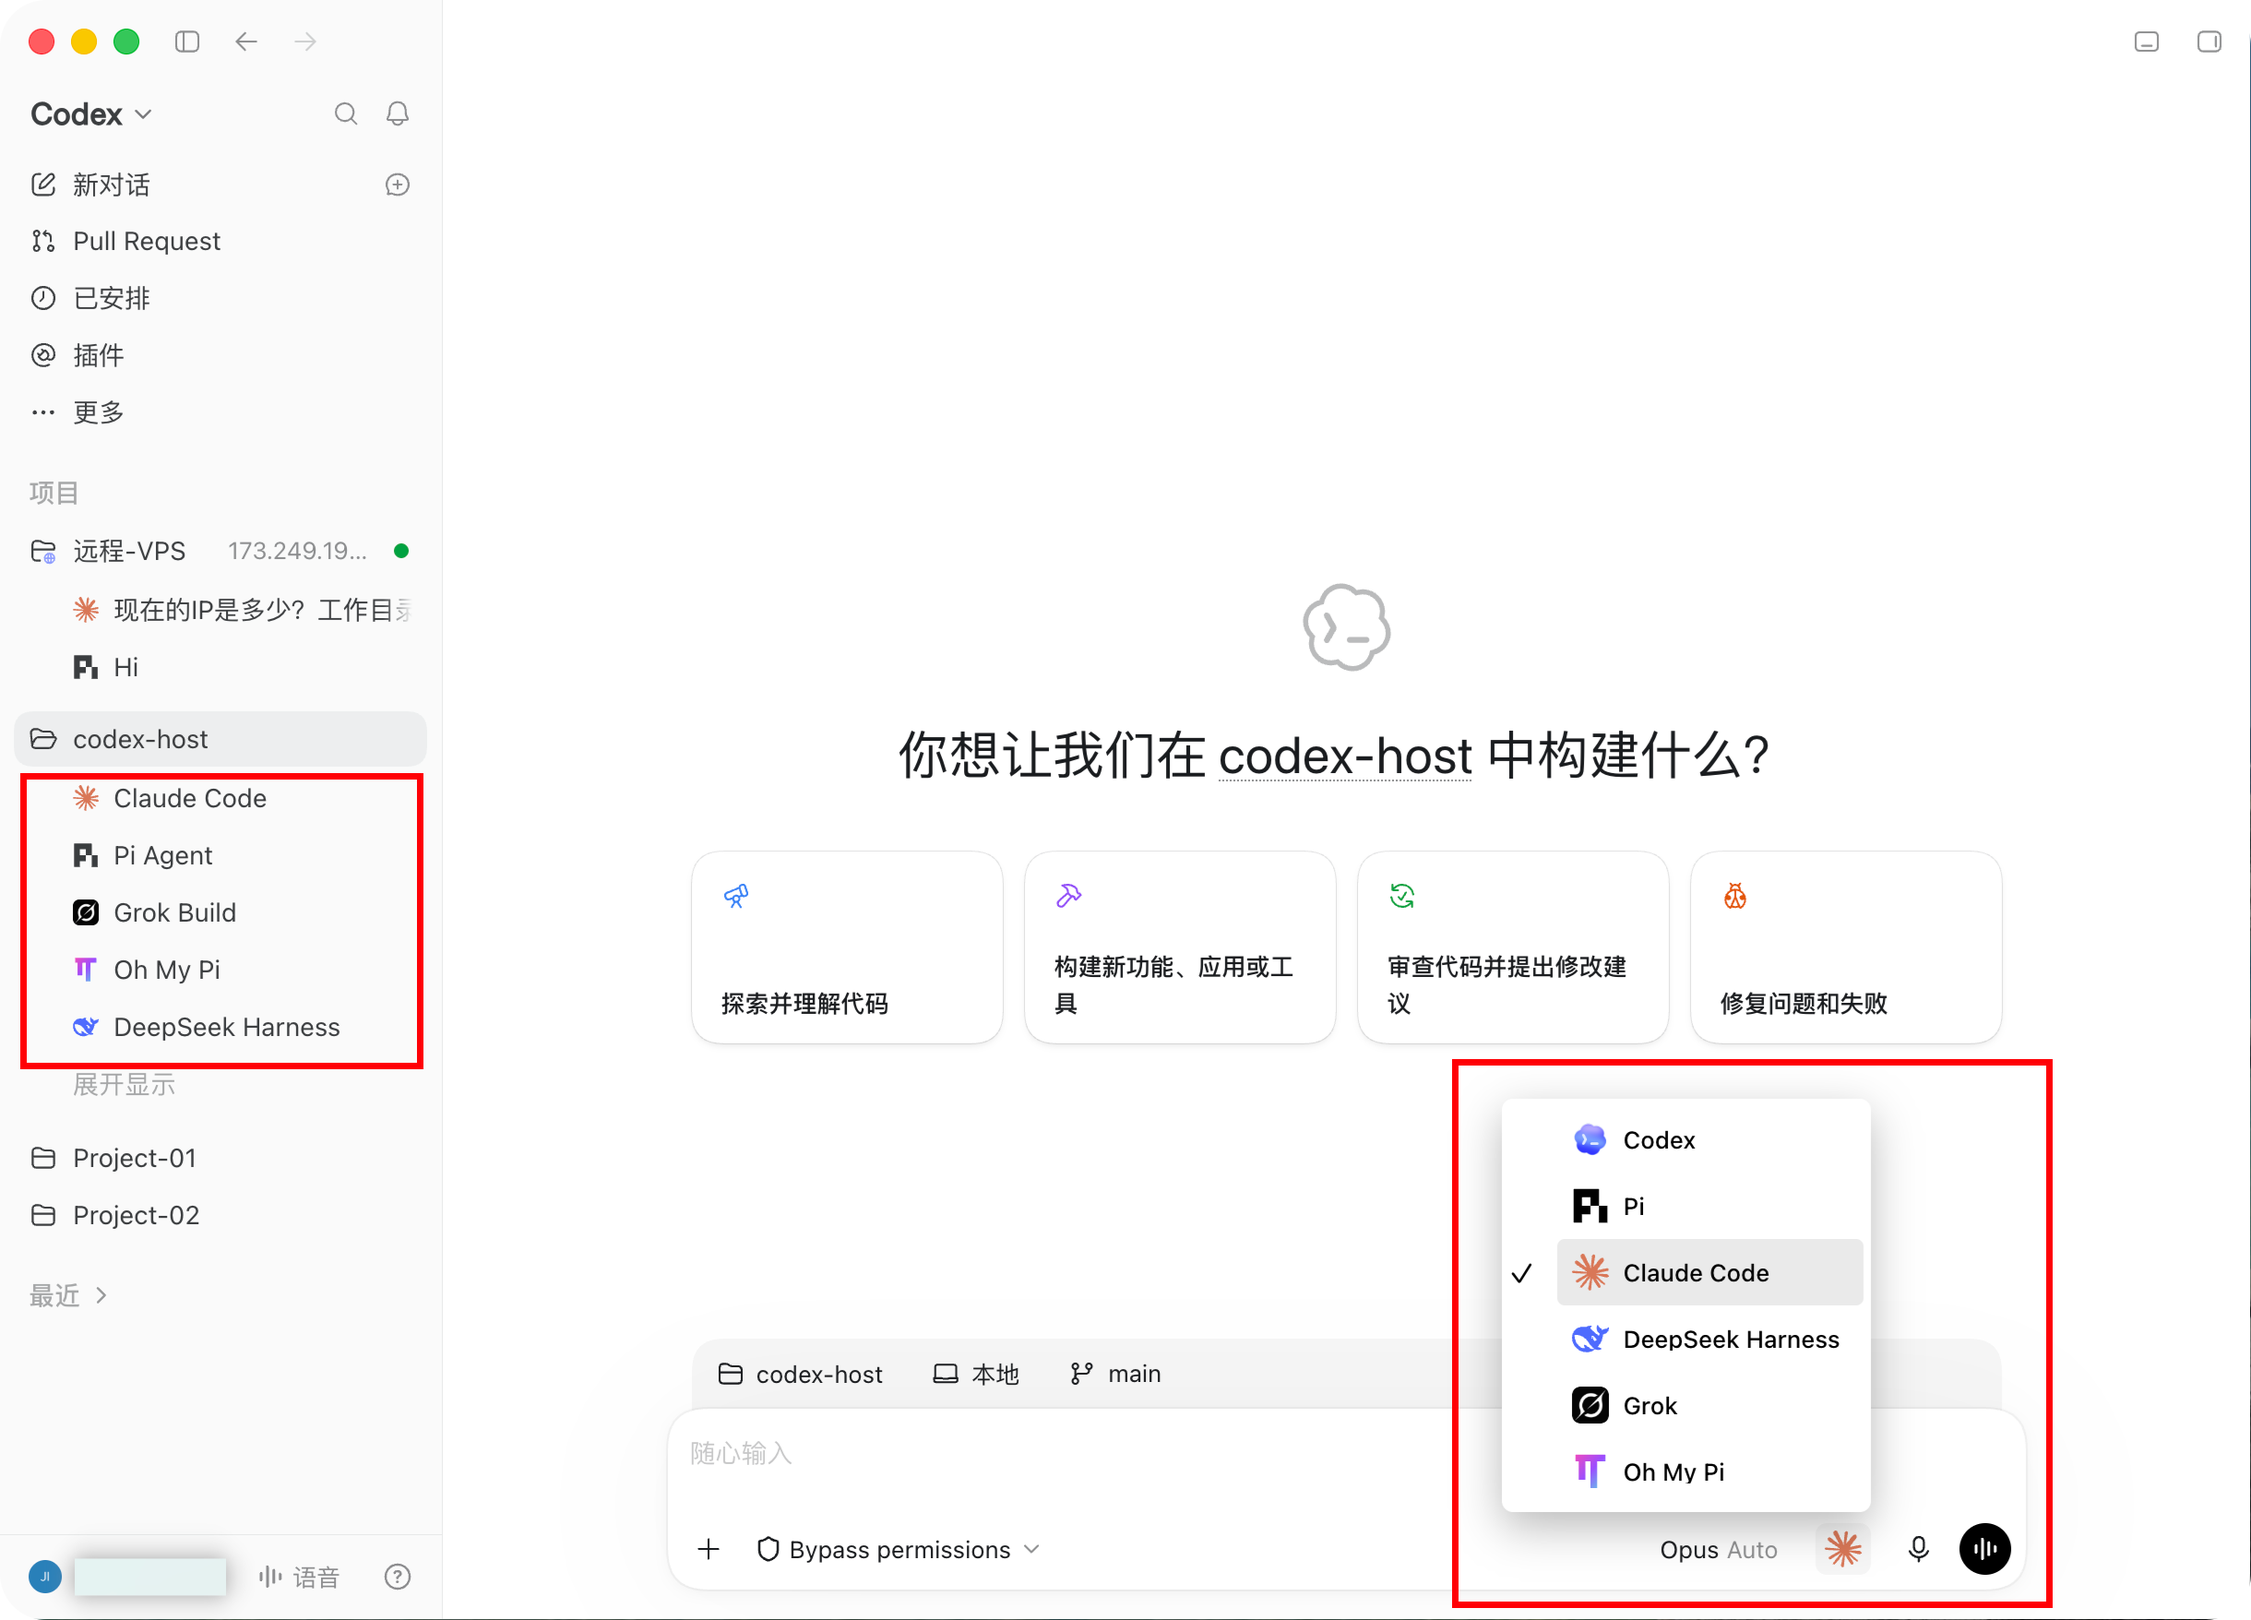
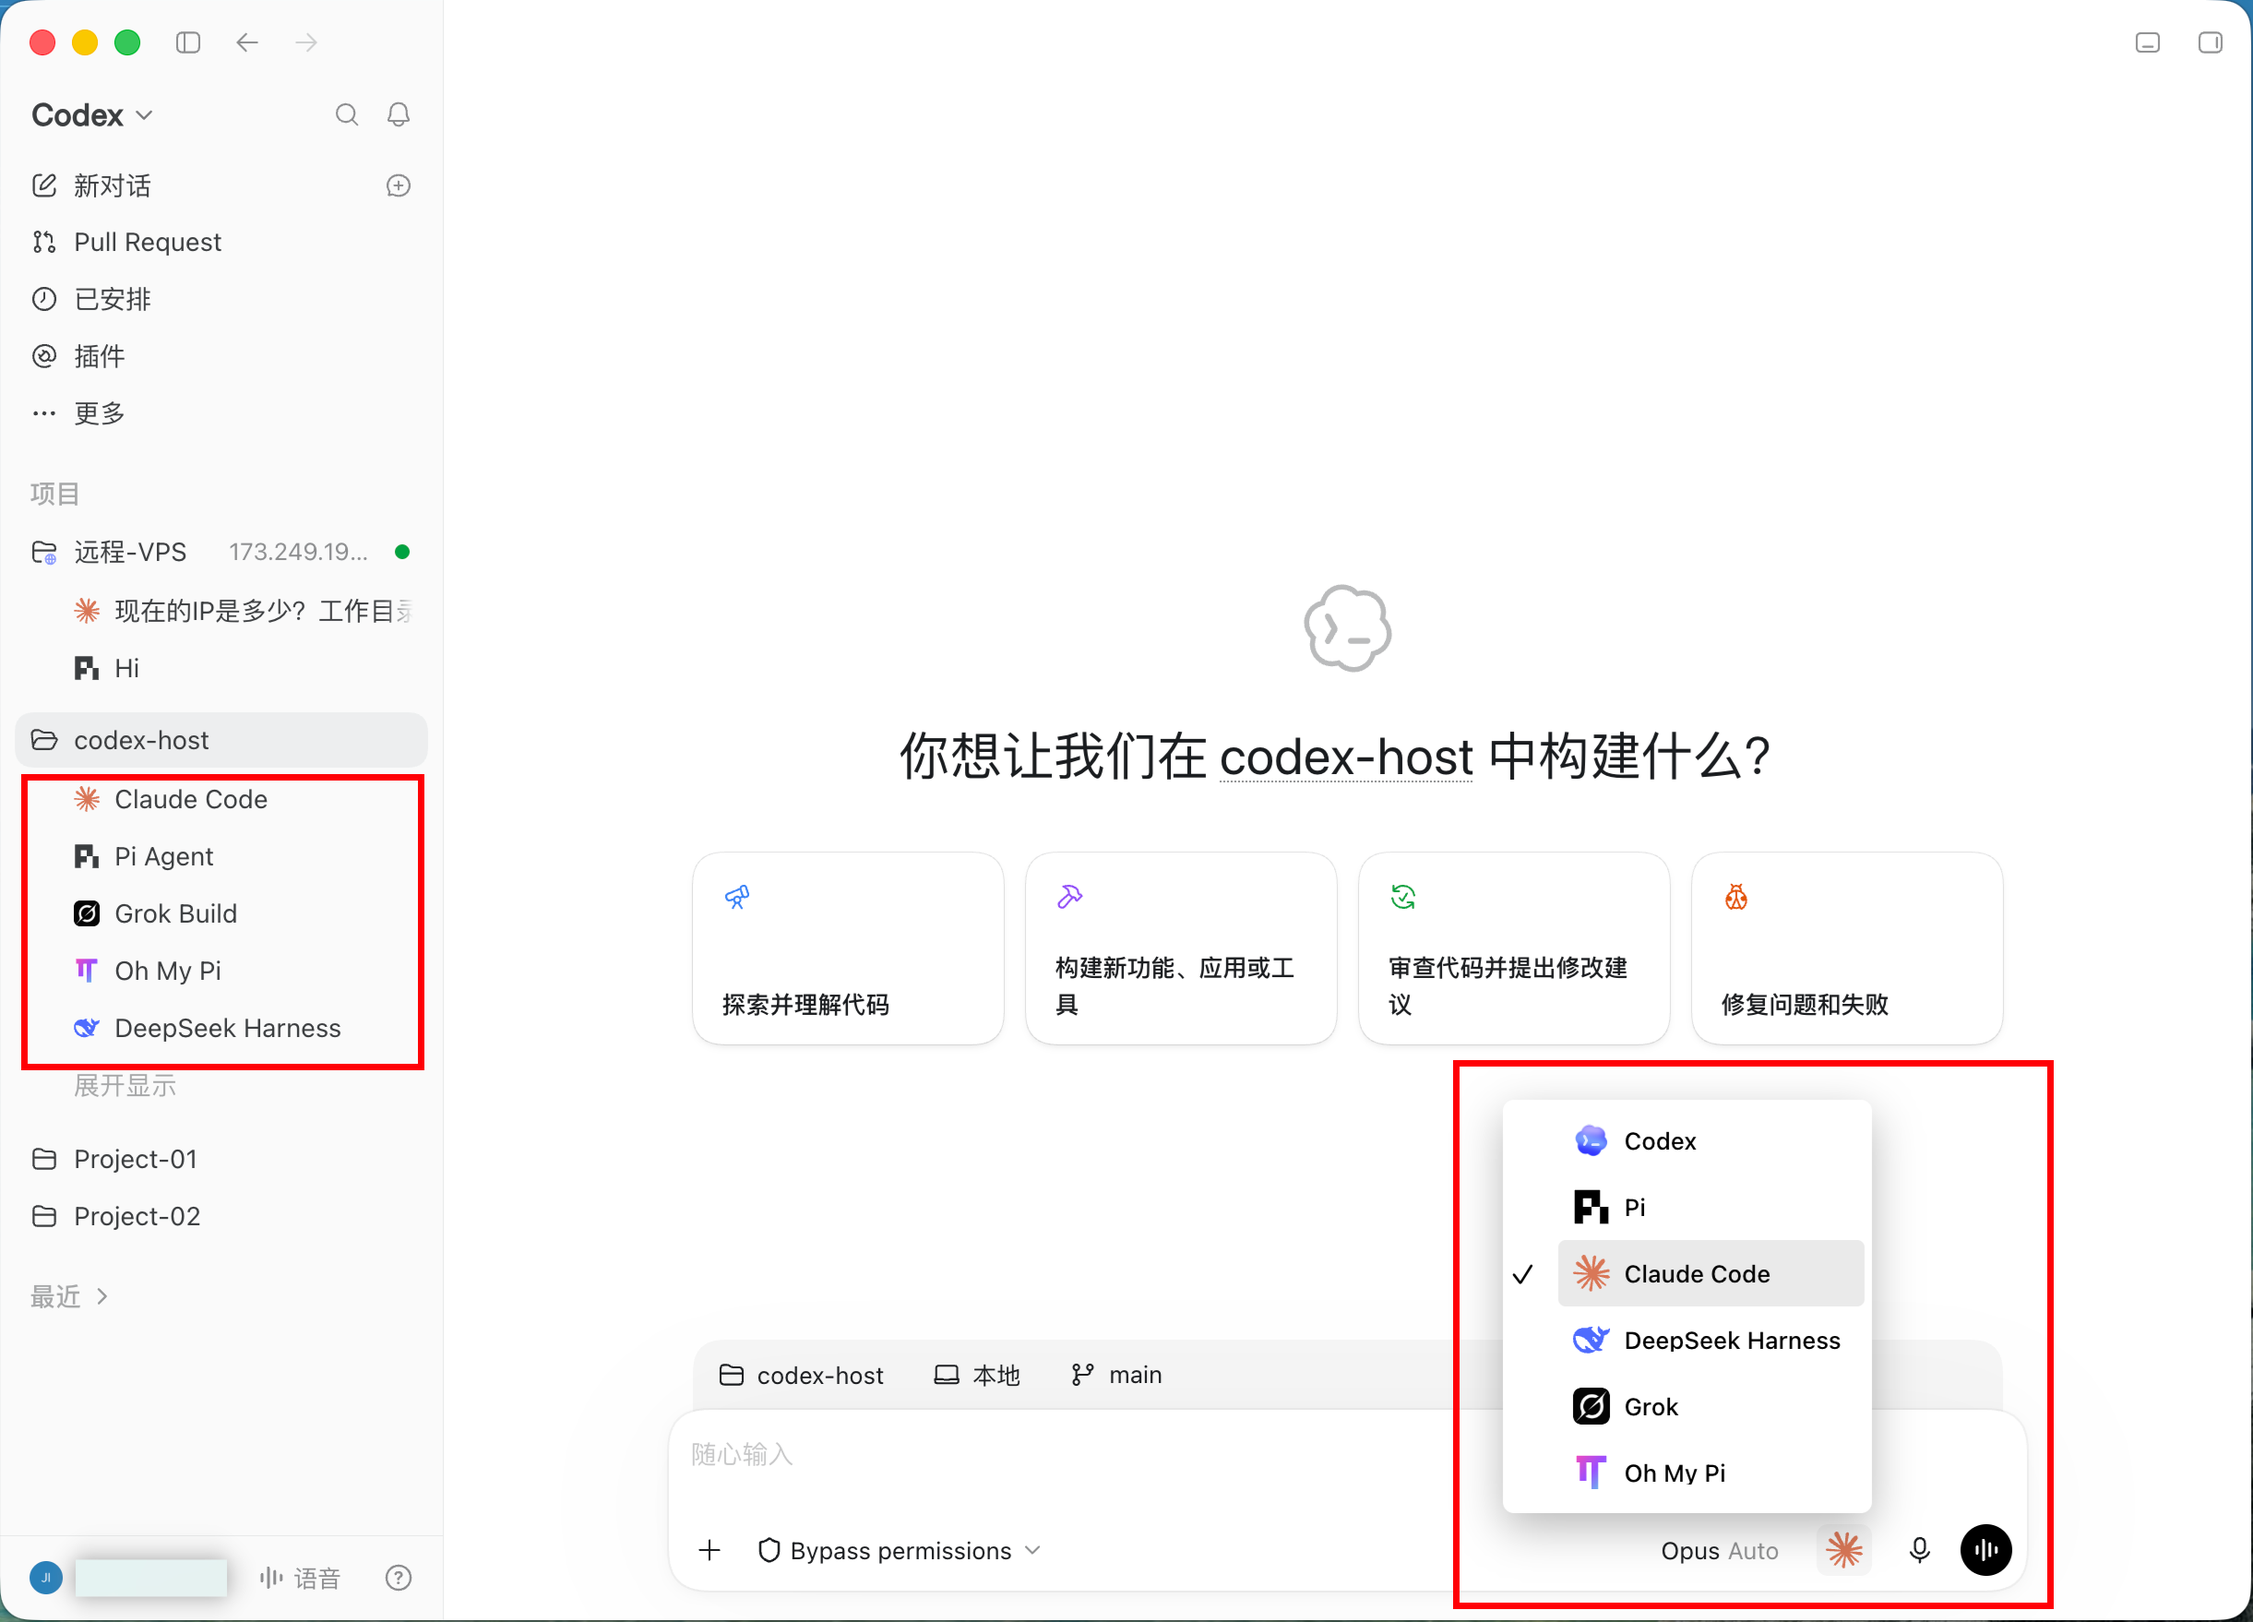
docs: update interface image size in README for better visibility

diff --git a/README.md b/README.md
@@ -40,7 +40,7 @@ https://github.com/user-attachments/assets/c48192d7-23ff-4f6e-b61a-6345a655bb76
 ### 界面
 
 <div align="center">
-  <img width="70%" src="docs/imgs/codexhost-interface-overview.png" alt="Pi、Oh My Pi、Grok Build 和 DeepSeek Harness 作为独立 Thread 运行在 Codex Desktop 中">
+  <img width="90%" src="docs/imgs/codexhost-interface-overview.png" alt="Pi、Oh My Pi、Grok Build 和 DeepSeek Harness 作为独立 Thread 运行在 Codex Desktop 中">
 </div>
 
 ## 快速使用
